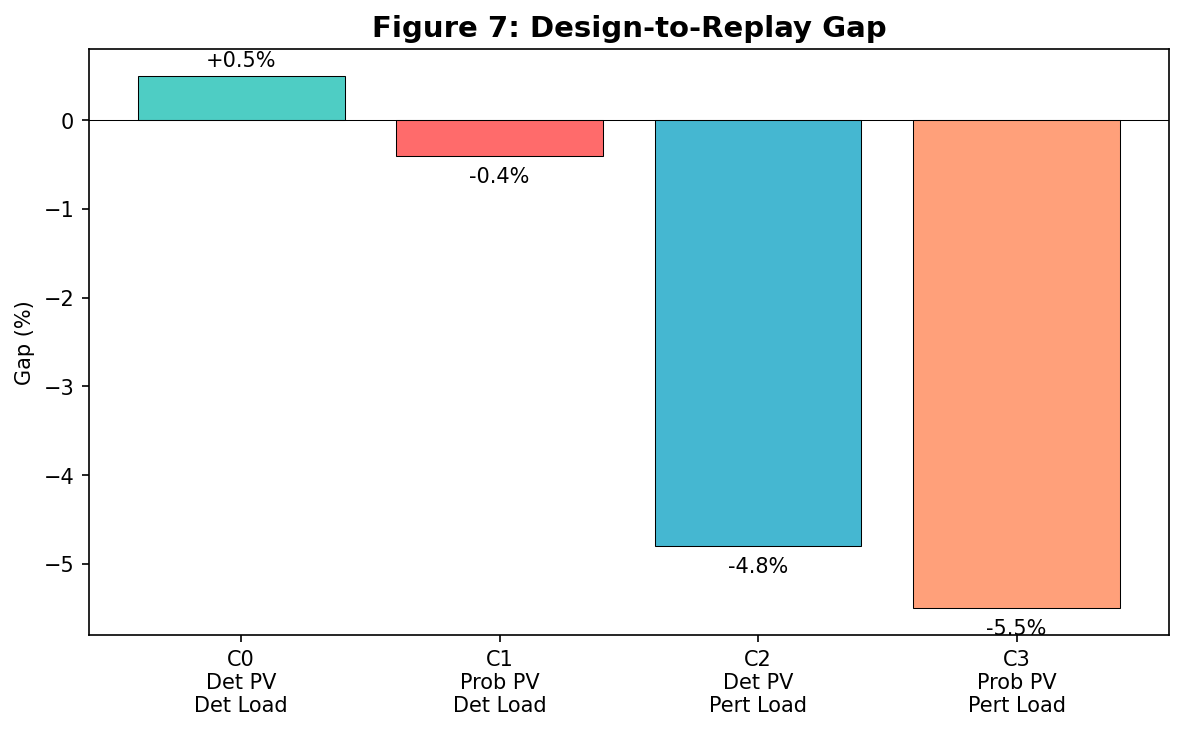
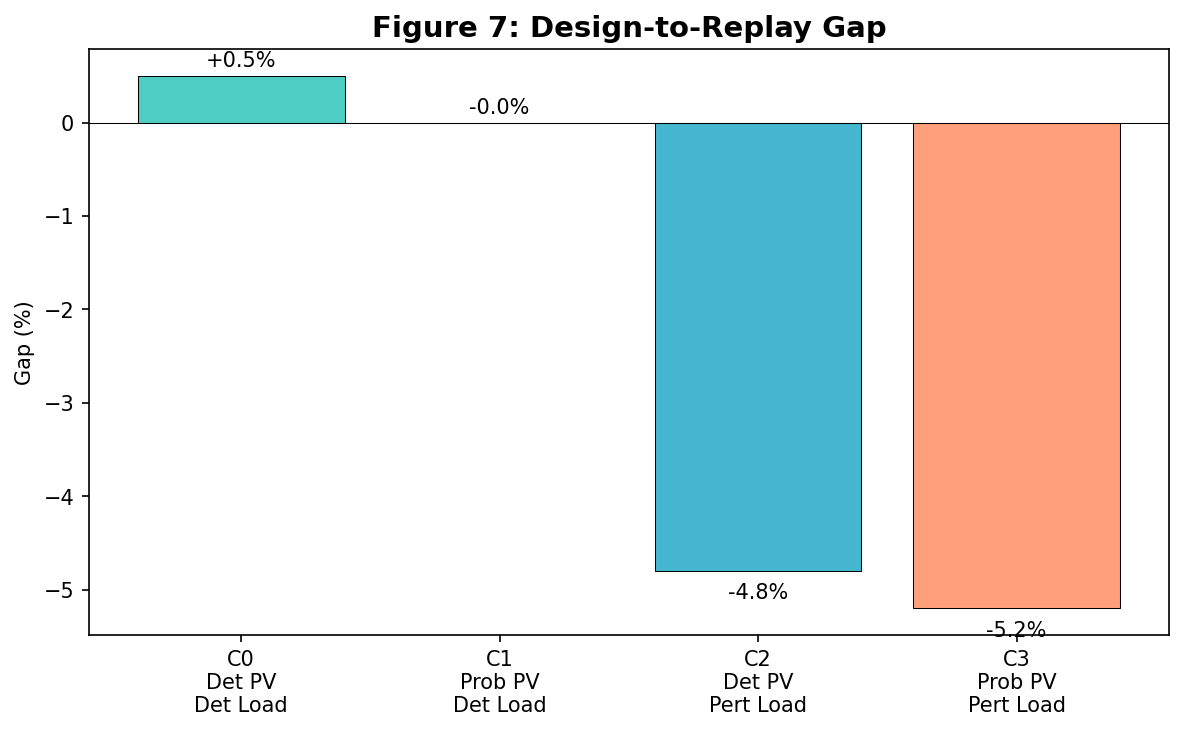
Regenerate figures and update README with 95% P_B cap documentation
All 10 figures (7 thesis + 3 dispatch) regenerated with latest results:
C1 replay 95.75M < C0 95.77M, C3 replay 95.88M < C2 95.92M.
README now documents the P_B ≤ 0.95 × P_B_det sizing bound.

diff --git a/README.md b/README.md
@@ -197,7 +197,7 @@ Key features:
 - **PWL battery degradation** (4-segment convex cost)
 - **Expected inter-day SOC** for probabilistic cases: E_daystart_{i+1} = Σ_ω π_ω · E(i,ω,24)
 - **Expected RE20 / terminal band** for probabilistic cases (prevents BESS oversizing from worst-case scenario)
-- **Deterministic sizing bounds** for probabilistic: CC ≤ CC_det, E_B ≤ E_B_det (same load → no higher capacity needed; scenario awareness used for smarter dispatch, not brute-force expansion)
+- **Deterministic sizing bounds** for probabilistic: CC = CC_det, E_B = E_B_det (same load → same contract and storage), P_B ≤ 0.95 × P_B_det (expected-value diversification discount — scenario awareness needs less inverter power)
 - **Robust over-contract**: Dmax sized against worst-case scenario demand across all PV scenarios
 - **TOU_FixedPeak tariff** (spec §5.1)
 - **No export / No CPPA** guardrail
